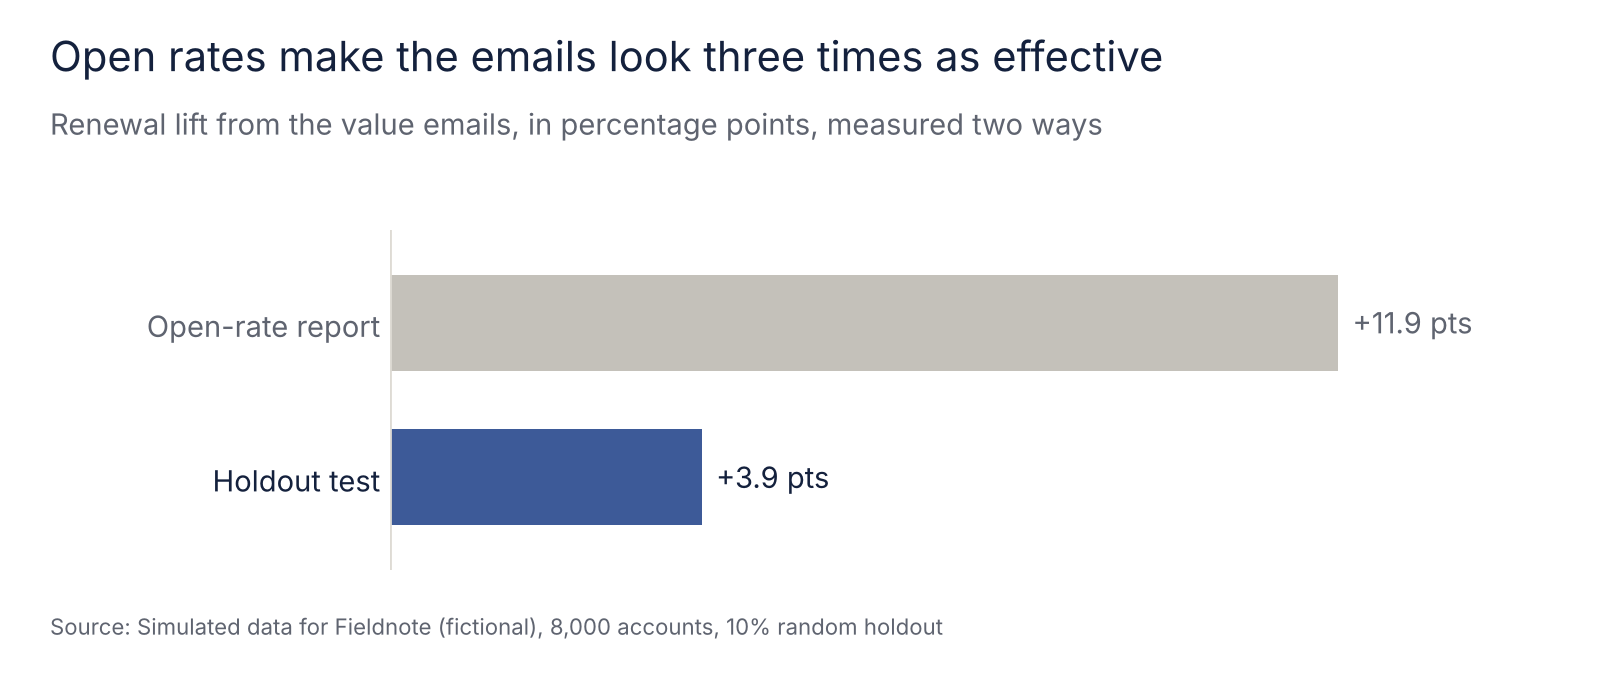
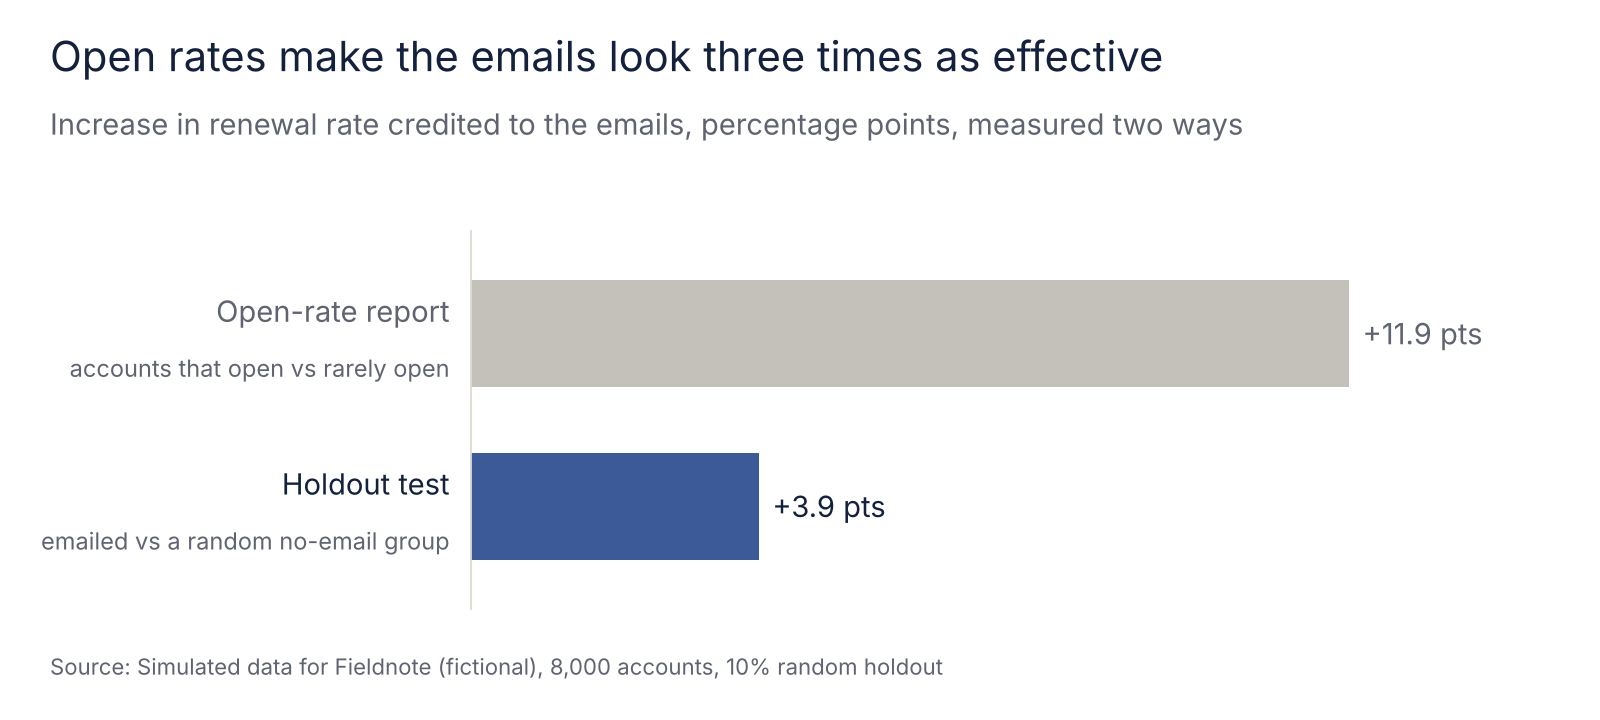
Charts a first-time reader can follow: plain headlines and explained labels

diff --git a/src/brand_style.py b/src/brand_style.py
@@ -8,6 +8,7 @@ Colours are validated with the dataviz palette checks (lightness band, chroma, c
 import matplotlib
 import matplotlib.pyplot as plt
 import matplotlib.ticker
+import matplotlib.transforms
 
 INK = "#14213d"        # navy: headlines, values, key labels
 MUTED = "#5f6470"      # deck, axis labels, source line (5.9:1 on white)
@@ -93,9 +94,9 @@ VALUE = 10.5                                         # value and category label 
 
 def chart(height=4.5, label_in=1.6, xaxis=False, right_in=0.55):
     """A figure with fixed margins. label_in is the room for category labels on the left;
-    xaxis reserves room for tick labels under the plot."""
+    xaxis reserves room under the plot: True for tick labels plus an axis title, "ticks" for tick labels only."""
     fig = plt.figure(figsize=(WIDTH, height), dpi=200)
-    bottom_in = 0.85 if xaxis else 0.55
+    bottom_in = 0.8 if xaxis == "ticks" else 1.0 if xaxis else 0.55
     left = (LEFT_IN + label_in) / WIDTH
     ax = fig.add_axes([left, bottom_in / height, 1 - left - right_in / WIDTH,
                        1 - (PLOT_TOP_IN + bottom_in) / height])
@@ -123,7 +124,23 @@ def save(fig, path):
     plt.close(fig)
 
 
-def hbar(ax, labels, values, highlight, fmt, color, xmax=None):
+def _row_labels(ax, ys, labels, highlight, sublabels=None):
+    """Category labels at the left of the plot, with an optional smaller second line that explains them."""
+    ax.set_yticks(ys)
+    if not sublabels:
+        ax.set_yticklabels(labels)
+        for i, t in enumerate(ax.get_yticklabels()):
+            t.set_color(INK if i in highlight else MUTED)
+        return
+    ax.set_yticklabels([""] * len(ys))
+    tr = matplotlib.transforms.blended_transform_factory(ax.transAxes, ax.transData)
+    for i, (y, lab, sub) in enumerate(zip(ys, labels, sublabels)):
+        ax.text(-0.02, y + 0.13, lab, transform=tr, ha="right", va="center", fontsize=VALUE,
+                color=INK if i in highlight else MUTED)
+        ax.text(-0.02, y - 0.2, sub, transform=tr, ha="right", va="center", fontsize=8.5, color=MUTED)
+
+
+def hbar(ax, labels, values, highlight, fmt, color, xmax=None, sublabels=None):
     """Horizontal bars, first item at the top. highlight: set of indexes drawn in the project colour."""
     n = len(values)
     ys = list(range(n))[::-1]
@@ -133,14 +150,13 @@ def hbar(ax, labels, values, highlight, fmt, color, xmax=None):
     for y, v, i in zip(ys, values, range(n)):
         c = color if i in highlight else CONTEXT
         ax.barh(y, v, height=0.62, color=c, linewidth=0)
-        ha, x = ("left", v + span * 0.015) if v >= 0 else ("right", v - span * 0.015)
-        ax.text(x, y, fmt(v), va="center", ha=ha, fontsize=VALUE, color=INK if i in highlight else MUTED)
-    ax.set_yticks(ys)
-    ax.set_yticklabels(labels)
-    for i, t in enumerate(ax.get_yticklabels()):
-        t.set_color(INK if i in highlight else MUTED)
+        small_neg = v < 0 and abs(v) < span * 0.05   # label a tiny negative on the right, like the rest
+        ha, x = ("left", max(v, 0) + span * 0.015) if v >= 0 or small_neg else ("right", v - span * 0.015)
+        ax.text(x, y, fmt[i] if isinstance(fmt, list) else fmt(v), va="center", ha=ha, fontsize=VALUE, color=INK if i in highlight else MUTED)
+    _row_labels(ax, ys, labels, highlight, sublabels)
     ax.set_ylim(-0.6, n - 0.4)
-    ax.set_xlim(lo - (span * 0.16 if lo < 0 else 0), hi + span * 0.16)
+    big_neg = lo < -span * 0.05
+    ax.set_xlim(lo - span * 0.3 if big_neg else min(lo, 0), hi + span * 0.16)
     ax.set_xticks([])
     ax.axvline(0, color=HAIRLINE, linewidth=1)
     return ax
@@ -153,7 +169,7 @@ def vbar(ax, labels, values, highlight, fmt, color, ymax=None):
     for x, v, i in zip(xs, values, range(len(values))):
         c = color if i in highlight else CONTEXT
         ax.bar(x, v, width=0.62, color=c, linewidth=0)
-        ax.text(x, v + hi * 0.02, fmt(v), ha="center", va="bottom", fontsize=VALUE,
+        ax.text(x, v + hi * 0.02, fmt[i] if isinstance(fmt, list) else fmt(v), ha="center", va="bottom", fontsize=VALUE,
                 color=INK if i in highlight else MUTED)
     ax.set_xticks(list(xs))
     ax.set_xticklabels(labels)
@@ -165,7 +181,7 @@ def vbar(ax, labels, values, highlight, fmt, color, ymax=None):
     return ax
 
 
-def dotrange(ax, labels, est, lo, hi, highlight, fmt, color, xlim=None, zero=True):
+def dotrange(ax, labels, est, lo, hi, highlight, fmt, color, xlim=None, zero=True, sublabels=None):
     """Estimate with its interval: a dot on a range line, first item at the top."""
     n = len(est)
     ys = list(range(n))[::-1]
@@ -175,10 +191,7 @@ def dotrange(ax, labels, est, lo, hi, highlight, fmt, color, xlim=None, zero=Tru
         ax.scatter([e], [y], s=80, color=c, zorder=3, linewidths=0)
         ax.text(e, y + 0.26, fmt(e), ha="center", va="bottom", fontsize=VALUE,
                 color=INK if i in highlight else MUTED)
-    ax.set_yticks(ys)
-    ax.set_yticklabels(labels)
-    for i, t in enumerate(ax.get_yticklabels()):
-        t.set_color(INK if i in highlight else MUTED)
+    _row_labels(ax, ys, labels, highlight, sublabels)
     ax.set_ylim(-0.6, n - 0.2)
     if xlim:
         ax.set_xlim(*xlim)

diff --git a/src/make_charts.py b/src/make_charts.py
@@ -13,10 +13,11 @@ SRC = "Simulated data for Fieldnote (fictional), 8,000 accounts, 10% random hold
 
 # Chart 1: open-rate reporting against the holdout
 d = pd.read_csv(RES / "open_rate_vs_holdout.csv")
-fig, ax = b.chart(height=3.4, label_in=1.7)
-b.hbar(ax, ["Open-rate report", "Holdout test"], d.points.tolist(), {1}, lambda v: f"+{v:.1f} pts", HL)
+fig, ax = b.chart(height=3.6, label_in=2.1)
+b.hbar(ax, ["Open-rate report", "Holdout test"], d.points.tolist(), {1}, lambda v: f"+{v:.1f} pts", HL,
+       sublabels=["accounts that open vs rarely open", "emailed vs a random no-email group"])
 b.titles(fig, "Open rates make the emails look three times as effective",
-         "Renewal lift from the value emails, in percentage points, measured two ways")
+         "Increase in renewal rate credited to the emails, percentage points, measured two ways")
 b.credit(fig, SRC)
 b.save(fig, OUT / "01_open_rates_overstate.png")
 
@@ -30,8 +31,8 @@ for y, (t, r) in zip([2, 1, 0], cut.iterrows()):
     ax.text(1.03, y, f"{r.open_rate:.0%}", transform=ax.get_yaxis_transform(), va="center", fontsize=b.VALUE,
             color=b.INK if t == "Low use" else b.MUTED)
 ax.text(1.03, 2.75, "Open rate", transform=ax.get_yaxis_transform(), va="center", fontsize=9, color=b.MUTED)
-b.titles(fig, "Low-use accounts gain the most, and open the least",
-         "Renewal lift against the holdout in percentage points, with 95% interval, by usage tier")
+b.titles(fig, "Low-use accounts gain the most from the emails, and open them least",
+         "Renewal lift against the no-email group, percentage points, with 95% range, by product usage")
 b.credit(fig, SRC)
 b.save(fig, OUT / "02_who_the_emails_help.png")
 print("charts saved")

diff --git a/README.md b/README.md
@@ -24,9 +24,9 @@ It uses a year of simulated data for **Fieldnote**, a fictional scheduling platf
 
 ## Charts
 
-![Open rates make the emails look three times as effective as they are](charts/01_open_rates_overstate.png)
+![Open rates make the emails look three times as effective](charts/01_open_rates_overstate.png)
 
-![The emails help low-use accounts most, and they rarely open them](charts/02_who_the_emails_help.png)
+![Low-use accounts gain the most from the emails, and open them least](charts/02_who_the_emails_help.png)
 
 ## Recommendation
 
